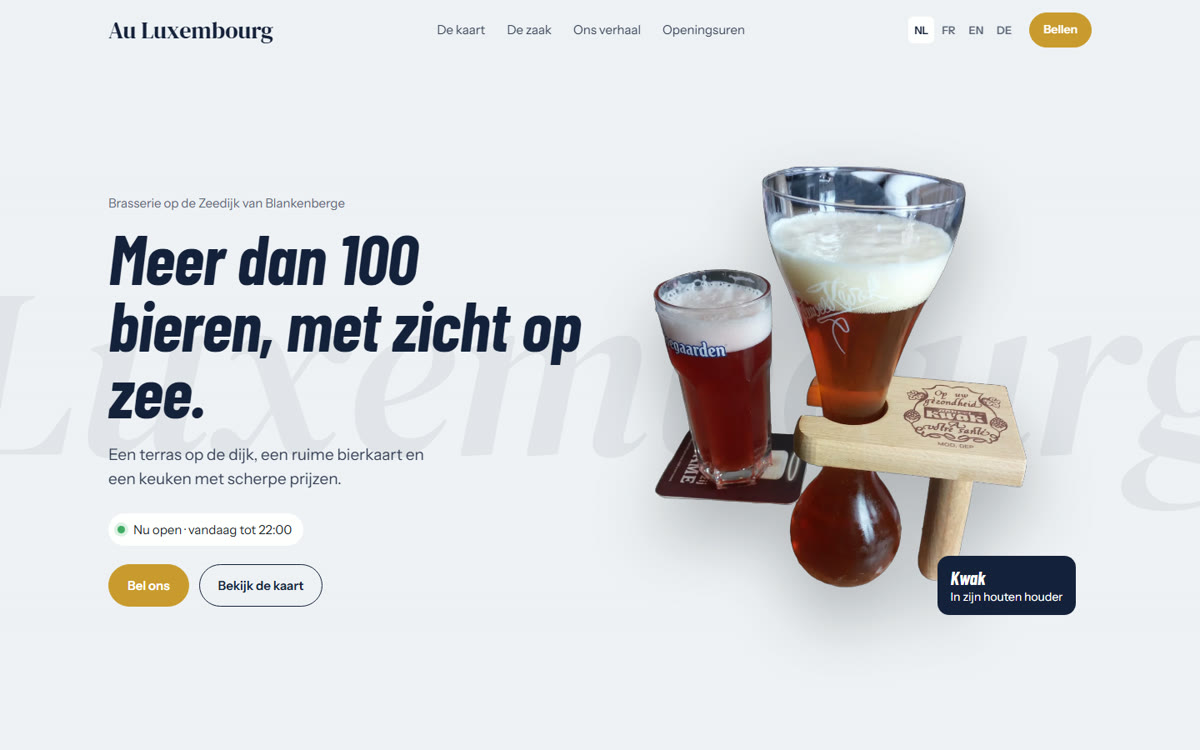
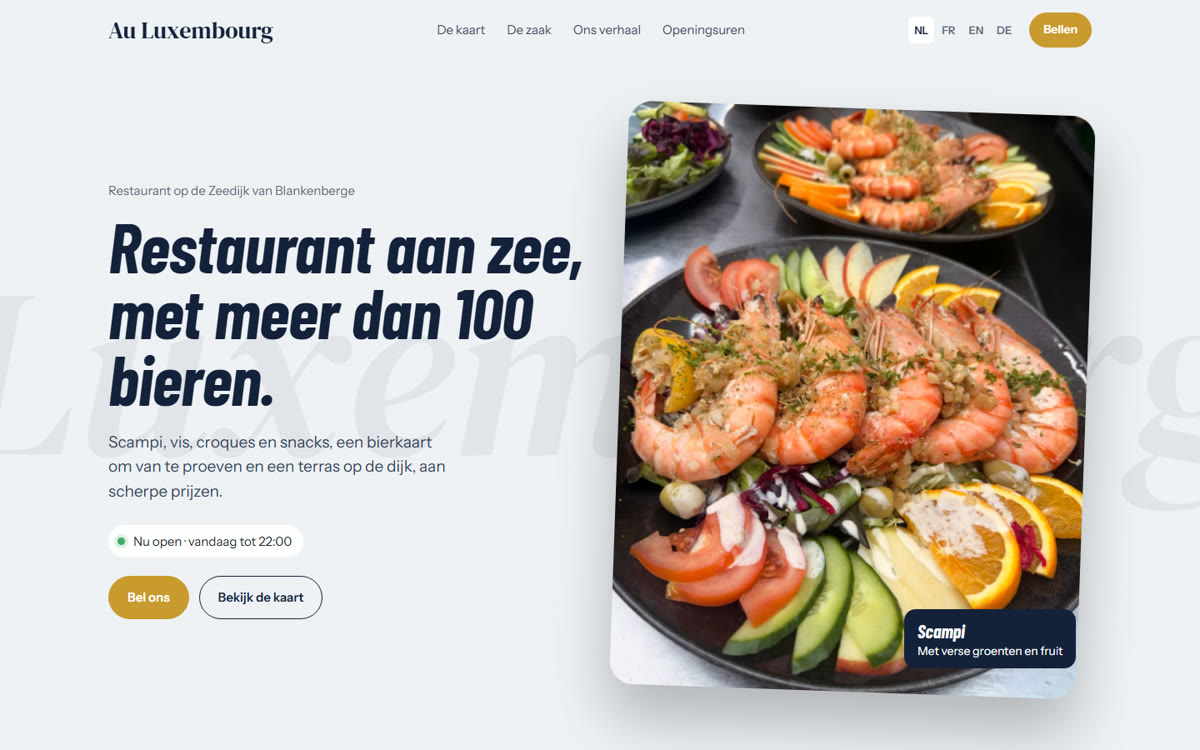
restaurant eerst, foto-kaarten, kaart op adres

diff --git a/index.html b/index.html
@@ -103,6 +103,10 @@ footer.voet{padding:40px 0;border-top:1px solid var(--lijn)}footer.voet .wrap{di
 .reveal{opacity:0;transform:translateY(26px);transition:opacity .8s,transform .8s cubic-bezier(.2,.8,.2,1)}.reveal.in{opacity:1;transform:none}
 :focus-visible{outline:2px solid var(--oker);outline-offset:3px;border-radius:6px}
 @media(prefers-reduced-motion:reduce){*{animation:none!important;transition:none!important}.achter{clip-path:none}.reveal,.gerecht{opacity:1;transform:none}}
+.pot img.foto{aspect-ratio:4/5;object-fit:cover;border-radius:28px;filter:none;box-shadow:0 40px 70px rgba(20,25,30,.28);transform-origin:center}
+.pot:has(img.foto) img{rotate:2deg}
+.gerecht .beeld img.foto{flex:1 1 100%;align-self:stretch;width:100%;max-width:none;height:100%;max-height:none;object-fit:cover;border-radius:14px;filter:none}
+.gerecht:hover .beeld img.foto{transform:scale(1.03)}
 
 </style>
 </head>
@@ -118,22 +122,22 @@ footer.voet{padding:40px 0;border-top:1px solid var(--lijn)}footer.voet .wrap{di
   <div class="achter" aria-hidden="true">Luxembourg</div>
   <div class="wrap">
     <div>
-      <p class="sinds" data-t="sinds">Brasserie op de Zeedijk van Blankenberge</p>
-      <h1 data-t="held_titel">Meer dan 100 bieren, met zicht op zee.</h1>
-      <p class="sub" data-t="held_sub">Een terras op de dijk, een ruime bierkaart en een keuken met scherpe prijzen.</p>
+      <p class="sinds" data-t="sinds">Restaurant op de Zeedijk van Blankenberge</p>
+      <h1 data-t="held_titel">Restaurant aan zee, met meer dan 100 bieren.</h1>
+      <p class="sub" data-t="held_sub">Scampi, vis, croques en snacks, een bierkaart om van te proeven en een terras op de dijk, aan scherpe prijzen.</p>
       <div class="status" id="status"><i></i><span>…</span></div>
       <div class="knoppen"><a class="knop" href="tel:+32467704630" data-t="bel">Bel ons</a><a class="knop rand" href="#kaart" data-t="naar_kaart">Bekijk de kaart</a></div>
     </div>
-    <div class="pot"><img id="pot" src="img/held.webp" alt="Kwak-bier in zijn houten houder"><div class="label"><b data-t="label_titel">Kwak</b><span data-t="label_tekst">In zijn houten houder</span></div></div>
+    <div class="pot"><img id="pot" class="foto" src="img/held.jpg" alt="Schotel met gegrilde scampi"><div class="label"><b data-t="label_titel">Scampi</b><span data-t="label_tekst">Met verse groenten en fruit</span></div></div>
   </div>
 </section>
 <div class="strook" aria-hidden="true"><div class="band" id="band"></div></div>
 <section class="kaartsectie" id="kaart"><div class="wrap">
-  <div class="koptekst reveal"><h2 data-t="kaart_titel">De kaart</h2><p data-t="kaart_intro">Bieren, warme en koude dranken, en een keuken voor een klein hapje of een volledige maaltijd.</p></div>
-  <div class="tabs" role="tablist"><button role="tab" aria-selected="true" data-groep="0" data-t="tab0">Bieren</button><button role="tab" aria-selected="false" data-groep="1" data-t="tab1">Keuken</button><button role="tab" aria-selected="false" data-groep="2" data-t="tab2">Zoet &amp; warm</button></div>
-  <div class="groep aan" id="g-0" role="tabpanel"><div class="grootwoord" data-t="tab0">Bieren</div><div class="gerechten"><article class="gerecht"><div class="beeld"><img src="img/g0_0.webp" alt="" loading="lazy"></div><h3 data-t="g0_0">Brugse Zot</h3><p data-t="g0_0_t">Blond bier uit Brugge, in het eigen glas.</p></article><article class="gerecht"><div class="beeld"><img src="img/g0_1.webp" alt="" loading="lazy"></div><h3 data-t="g0_1">Mort Subite Kriek</h3><p data-t="g0_1_t">Fris en fruitig, met krieken.</p></article><article class="gerecht"><div class="beeld"><img src="img/g0_2.webp" alt="" loading="lazy"></div><h3 data-t="g0_2">Van ’t vat</h3><p data-t="g0_2_t">In het seizoen acht verschillende bieren van ’t vat.</p></article></div></div>
-  <div class="groep" id="g-1" role="tabpanel"><div class="grootwoord" data-t="tab1">Keuken</div><div class="gerechten"><article class="gerecht"><div class="beeld"><img src="img/g1_0.webp" alt="" loading="lazy"></div><h3 data-t="g1_0">Scampi</h3><p data-t="g1_0_t">Gegrilde scampi met verse groenten en fruit.</p></article><article class="gerecht"><div class="beeld"><img src="img/g1_1.webp" alt="" loading="lazy"></div><h3 data-t="g1_1">Zalm</h3><p data-t="g1_1_t">Zalmfilet met grijze garnalen en een frisse salade.</p></article></div></div>
-  <div class="groep" id="g-2" role="tabpanel"><div class="grootwoord" data-t="tab2">Zoet &amp; warm</div><div class="gerechten"><article class="gerecht"><div class="beeld"><img src="img/g2_0.webp" alt="" loading="lazy"></div><h3 data-t="g2_0">IJscoupe</h3><p data-t="g2_0_t">Met slagroom, chocoladesaus en een wafeltje.</p></article><article class="gerecht"><div class="beeld"><img src="img/g2_1.webp" alt="" loading="lazy"></div><h3 data-t="g2_1">Irish coffee</h3><p data-t="g2_1_t">Of een cappuccino, een thee, een smoothie.</p></article></div></div>
+  <div class="koptekst reveal"><h2 data-t="kaart_titel">De kaart</h2><p data-t="kaart_intro">Een keuken voor een volledige maaltijd of een klein hapje, met meer dan 100 bieren om bij te kiezen.</p></div>
+  <div class="tabs" role="tablist"><button role="tab" aria-selected="true" data-groep="0" data-t="tab0">Keuken</button><button role="tab" aria-selected="false" data-groep="1" data-t="tab1">Bieren</button><button role="tab" aria-selected="false" data-groep="2" data-t="tab2">Zoet &amp; warm</button></div>
+  <div class="groep aan" id="g-0" role="tabpanel"><div class="grootwoord" data-t="tab0">Keuken</div><div class="gerechten"><article class="gerecht"><div class="beeld"><img src="img/g0_0.jpg" class="foto" alt="" loading="lazy"></div><h3 data-t="g0_0">Scampi</h3><p data-t="g0_0_t">Gegrilde scampi met verse groenten en fruit.</p></article><article class="gerecht"><div class="beeld"><img src="img/g0_1.jpg" class="foto" alt="" loading="lazy"></div><h3 data-t="g0_1">Zalm</h3><p data-t="g0_1_t">Zalmfilet met grijze garnalen en een frisse salade.</p></article></div></div>
+  <div class="groep" id="g-1" role="tabpanel"><div class="grootwoord" data-t="tab1">Bieren</div><div class="gerechten"><article class="gerecht"><div class="beeld"><img src="img/g1_0.jpg" class="foto" alt="" loading="lazy"></div><h3 data-t="g1_0">Brugse Zot</h3><p data-t="g1_0_t">Blond bier uit Brugge, in het eigen glas.</p></article><article class="gerecht"><div class="beeld"><img src="img/g1_1.webp" alt="" loading="lazy"></div><h3 data-t="g1_1">Mort Subite Kriek</h3><p data-t="g1_1_t">Fris en fruitig, met krieken.</p></article><article class="gerecht"><div class="beeld"><img src="img/g1_2.jpg" class="foto" alt="" loading="lazy"></div><h3 data-t="g1_2">Van ’t vat</h3><p data-t="g1_2_t">In het seizoen acht verschillende bieren van ’t vat.</p></article></div></div>
+  <div class="groep" id="g-2" role="tabpanel"><div class="grootwoord" data-t="tab2">Zoet &amp; warm</div><div class="gerechten"><article class="gerecht"><div class="beeld"><img src="img/g2_0.jpg" class="foto" alt="" loading="lazy"></div><h3 data-t="g2_0">IJscoupe</h3><p data-t="g2_0_t">Met slagroom, chocoladesaus en een wafeltje.</p></article><article class="gerecht"><div class="beeld"><img src="img/g2_1.webp" alt="" loading="lazy"></div><h3 data-t="g2_1">Irish coffee</h3><p data-t="g2_1_t">Of een cappuccino, een thee, een smoothie.</p></article></div></div>
   <p class="noot" data-t="noot">Ook croques, broodjes, smoothies en milkshakes. Vraag naar de volledige bierkaart.</p>
 </div></section>
 <section class="terras" id="terras"><img src="img/terras.jpg" alt="" loading="lazy">
@@ -158,7 +162,7 @@ footer.voet{padding:40px 0;border-top:1px solid var(--lijn)}footer.voet .wrap{di
 <footer class="voet"><div class="wrap"><span>© Au Luxembourg, Blankenberge</span><span>Zeedijk 75 · +32 467 70 46 30</span></div></footer>
 <div class="belbalk"><a class="knop" href="tel:+32467704630" data-t="bel_kort">Bellen</a><a class="knop rand" href="https://www.google.com/maps/search/?api=1&amp;query=Au+Luxembourg&amp;query_place_id=ChIJd3uxQIaqxEcRaDI_cEEVljQ" data-t="route">Route</a></div>
 <script>
-var T = {"nl": {"g0_0": "Brugse Zot", "g0_0_t": "Blond bier uit Brugge, in het eigen glas.", "g0_1": "Mort Subite Kriek", "g0_1_t": "Fris en fruitig, met krieken.", "g0_2": "Van ’t vat", "g0_2_t": "In het seizoen acht verschillende bieren van ’t vat.", "tab0": "Bieren", "g1_0": "Scampi", "g1_0_t": "Gegrilde scampi met verse groenten en fruit.", "g1_1": "Zalm", "g1_1_t": "Zalmfilet met grijze garnalen en een frisse salade.", "tab1": "Keuken", "g2_0": "IJscoupe", "g2_0_t": "Met slagroom, chocoladesaus en een wafeltje.", "g2_1": "Irish coffee", "g2_1_t": "Of een cappuccino, een thee, een smoothie.", "tab2": "Zoet & warm", "f0": "Terras met zicht op zee", "f0_t": "Recht op de Zeedijk.", "f1": "Zaal voor 50 personen", "f1_t": "Voor feestjes en vergaderingen.", "f2": "Rolstoeltoegankelijk", "f2_t": "Met aangepast toilet.", "nav_kaart": "De kaart", "nav_terras": "De zaak", "nav_verhaal": "Ons verhaal", "nav_uren": "Openingsuren", "bel_kort": "Bellen", "bel": "Bel ons", "naar_kaart": "Bekijk de kaart", "kaart_titel": "De kaart", "uren_titel": "Openingsuren", "route": "Route", "sinds": "Brasserie op de Zeedijk van Blankenberge", "held_titel": "Meer dan 100 bieren, met zicht op zee.", "held_sub": "Een terras op de dijk, een ruime bierkaart en een keuken met scherpe prijzen.", "label_titel": "Kwak", "label_tekst": "In zijn houten houder", "kaart_intro": "Bieren, warme en koude dranken, en een keuken voor een klein hapje of een volledige maaltijd.", "noot": "Ook croques, broodjes, smoothies en milkshakes. Vraag naar de volledige bierkaart.", "terras_titel": "Op de dijk, bij zonsondergang", "terras_tekst": "Een glas op het terras, de zee voor u en de fietsen die voorbij rijden.", "verhaal_titel": "Een bierkaart om te ontdekken", "verhaal_tekst": "Meer dan honderd bieren, in het seizoen acht van ’t vat, elk in het eigen glas. Binnen een rustige zaal in blauw fluweel, buiten het terras op de dijk.", "eenheid": "bieren", "reviews_onder": "op Google, bij 518 beoordelingen", "uren_noot": "Voor groepen en feestjes in de zaal: bel even.", "dagen": ["zondag", "maandag", "dinsdag", "woensdag", "donderdag", "vrijdag", "zaterdag"], "gesloten": "Gesloten", "nu_open": "Nu open · vandaag tot ", "open_vanaf": "Vandaag open vanaf ", "nu_dicht": "Nu gesloten · ", "morgen": "morgen", "vanaf": " open vanaf ", "band": ["Brugse Zot", "Mort Subite Kriek", "Van ’t vat", "Scampi", "Zalm", "IJscoupe", "Irish coffee"]}, "fr": {"g0_0": "Brugse Zot", "g0_0_t": "Bière blonde de Bruges, dans son propre verre.", "g0_1": "Mort Subite Kriek", "g0_1_t": "Fraîche et fruitée, aux griottes.", "g0_2": "À la pression", "g0_2_t": "En saison, huit bières différentes à la pression.", "tab0": "Bières", "g1_0": "Scampi", "g1_0_t": "Scampi grillés, légumes et fruits frais.", "g1_1": "Saumon", "g1_1_t": "Filet de saumon aux crevettes grises et salade fraîche.", "tab1": "Cuisine", "g2_0": "Coupe glacée", "g2_0_t": "Avec chantilly, sauce chocolat et une gaufrette.", "g2_1": "Irish coffee", "g2_1_t": "Ou un cappuccino, un thé, un smoothie.", "tab2": "Sucré & chaud", "f0": "Terrasse avec vue sur la mer", "f0_t": "Directement sur la digue.", "f1": "Salle pour 50 personnes", "f1_t": "Pour fêtes et réunions.", "f2": "Accessible en fauteuil", "f2_t": "Avec toilettes adaptées.", "nav_kaart": "La carte", "nav_terras": "Le lieu", "nav_verhaal": "Notre histoire", "nav_uren": "Horaires", "bel_kort": "Appeler", "bel": "Appelez-nous", "naar_kaart": "Voir la carte", "kaart_titel": "La carte", "uren_titel": "Horaires", "route": "Itinéraire", "sinds": "Brasserie sur la digue de Blankenberge", "held_titel": "Plus de 100 bières, face à la mer.", "held_sub": "Une terrasse sur la digue, une grande carte des bières et une cuisine à prix doux.", "label_titel": "Kwak", "label_tekst": "Dans son support en bois", "kaart_intro": "Des bières, des boissons chaudes et froides, et une cuisine pour un en-cas ou un vrai repas.", "noot": "Aussi des croques, sandwichs, smoothies et milkshakes. Demandez la carte complète des bières.", "terras_titel": "Sur la digue, au coucher du soleil", "terras_tekst": "Un verre en terrasse, la mer devant vous et les vélos qui passent.", "verhaal_titel": "Une carte des bières à découvrir", "verhaal_tekst": "Plus de cent bières, huit à la pression en saison, chacune dans son verre. À l’intérieur une salle calme en velours bleu, dehors la terrasse sur la digue.", "eenheid": "bières", "reviews_onder": "sur Google, 518 avis", "uren_noot": "Pour les groupes et fêtes dans la salle : appelez-nous.", "dagen": ["dimanche", "lundi", "mardi", "mercredi", "jeudi", "vendredi", "samedi"], "gesloten": "Fermé", "nu_open": "Ouvert · aujourd’hui jusqu’à ", "open_vanaf": "Ouvert aujourd’hui dès ", "nu_dicht": "Fermé · ", "morgen": "demain", "vanaf": " ouvert dès ", "band": ["Brugse Zot", "Mort Subite Kriek", "À la pression", "Scampi", "Saumon", "Coupe glacée", "Irish coffee"]}, "en": {"g0_0": "Brugse Zot", "g0_0_t": "Blonde beer from Bruges, in its own glass.", "g0_1": "Mort Subite Kriek", "g0_1_t": "Fresh and fruity, with sour cherries.", "g0_2": "On tap", "g0_2_t": "In season, eight different beers on tap.", "tab0": "Beers", "g1_0": "Scampi", "g1_0_t": "Grilled scampi with fresh vegetables and fruit.", "g1_1": "Salmon", "g1_1_t": "Salmon fillet with brown shrimps and a fresh salad.", "tab1": "Kitchen", "g2_0": "Ice cream sundae", "g2_0_t": "With whipped cream, chocolate sauce and a wafer.", "g2_1": "Irish coffee", "g2_1_t": "Or a cappuccino, a tea, a smoothie.", "tab2": "Sweet & warm", "f0": "Terrace with a sea view", "f0_t": "Right on the seafront.", "f1": "Room for 50 people", "f1_t": "For parties and meetings.", "f2": "Wheelchair accessible", "f2_t": "With an adapted toilet.", "nav_kaart": "Menu", "nav_terras": "The place", "nav_verhaal": "Our story", "nav_uren": "Opening hours", "bel_kort": "Call us", "bel": "Call us", "naar_kaart": "See the menu", "kaart_titel": "The menu", "uren_titel": "Opening hours", "route": "Directions", "sinds": "Brasserie on the seafront of Blankenberge", "held_titel": "More than 100 beers, with a sea view.", "held_sub": "A terrace on the seafront, a big beer list and a kitchen with fair prices.", "label_titel": "Kwak", "label_tekst": "In its wooden stand", "kaart_intro": "Beers, hot and cold drinks, and a kitchen for a snack or a full meal.", "noot": "Also croques, sandwiches, smoothies and milkshakes. Ask for the full beer list.", "terras_titel": "On the seafront, at sunset", "terras_tekst": "A drink on the terrace, the sea in front of you and the bikes rolling by.", "verhaal_titel": "A beer list to explore", "verhaal_tekst": "More than a hundred beers, eight on tap in season, each in its own glass. Inside a quiet room in blue velvet, outside the terrace on the seafront.", "eenheid": "beers", "reviews_onder": "on Google, from 518 reviews", "uren_noot": "For groups and parties in the room: give us a call.", "dagen": ["Sunday", "Monday", "Tuesday", "Wednesday", "Thursday", "Friday", "Saturday"], "gesloten": "Closed", "nu_open": "Open now · today until ", "open_vanaf": "Opens today at ", "nu_dicht": "Closed now · ", "morgen": "tomorrow", "vanaf": " opens at ", "band": ["Brugse Zot", "Mort Subite Kriek", "On tap", "Scampi", "Salmon", "Ice cream sundae", "Irish coffee"]}, "de": {"g0_0": "Brugse Zot", "g0_0_t": "Blondes Bier aus Brügge, im eigenen Glas.", "g0_1": "Mort Subite Kriek", "g0_1_t": "Frisch und fruchtig, mit Sauerkirschen.", "g0_2": "Vom Fass", "g0_2_t": "In der Saison acht verschiedene Biere vom Fass.", "tab0": "Biere", "g1_0": "Scampi", "g1_0_t": "Gegrillte Scampi mit frischem Gemüse und Obst.", "g1_1": "Lachs", "g1_1_t": "Lachsfilet mit Nordseekrabben und frischem Salat.", "tab1": "Küche", "g2_0": "Eisbecher", "g2_0_t": "Mit Sahne, Schokoladensoße und einer Waffel.", "g2_1": "Irish Coffee", "g2_1_t": "Oder ein Cappuccino, ein Tee, ein Smoothie.", "tab2": "Süß & warm", "f0": "Terrasse mit Meerblick", "f0_t": "Direkt am Deich.", "f1": "Saal für 50 Personen", "f1_t": "Für Feiern und Besprechungen.", "f2": "Rollstuhlgerecht", "f2_t": "Mit barrierefreier Toilette.", "nav_kaart": "Die Karte", "nav_terras": "Das Lokal", "nav_verhaal": "Unsere Geschichte", "nav_uren": "Öffnungszeiten", "bel_kort": "Anrufen", "bel": "Rufen Sie uns an", "naar_kaart": "Zur Karte", "kaart_titel": "Die Karte", "uren_titel": "Öffnungszeiten", "route": "Route", "sinds": "Brasserie am Deich von Blankenberge", "held_titel": "Über 100 Biere, mit Meerblick.", "held_sub": "Eine Terrasse am Deich, eine große Bierkarte und eine Küche mit fairen Preisen.", "label_titel": "Kwak", "label_tekst": "In seinem Holzständer", "kaart_intro": "Biere, warme und kalte Getränke und eine Küche für einen Snack oder eine ganze Mahlzeit.", "noot": "Auch Croques, Brötchen, Smoothies und Milchshakes. Fragen Sie nach der ganzen Bierkarte.", "terras_titel": "Am Deich, bei Sonnenuntergang", "terras_tekst": "Ein Glas auf der Terrasse, das Meer vor Ihnen und die Fahrräder, die vorbeifahren.", "verhaal_titel": "Eine Bierkarte zum Entdecken", "verhaal_tekst": "Über hundert Biere, in der Saison acht vom Fass, jedes im eigenen Glas. Drinnen ein ruhiger Raum in blauem Samt, draußen die Terrasse am Deich.", "eenheid": "Biere", "reviews_onder": "auf Google, aus 518 Bewertungen", "uren_noot": "Für Gruppen und Feiern im Saal: bitte kurz anrufen.", "dagen": ["Sonntag", "Montag", "Dienstag", "Mittwoch", "Donnerstag", "Freitag", "Samstag"], "gesloten": "Geschlossen", "nu_open": "Jetzt geöffnet · heute bis ", "open_vanaf": "Heute geöffnet ab ", "nu_dicht": "Jetzt geschlossen · ", "morgen": "morgen", "vanaf": " geöffnet ab ", "band": ["Brugse Zot", "Mort Subite Kriek", "Vom Fass", "Scampi", "Lachs", "Eisbecher", "Irish Coffee"]}};
+var T = {"nl": {"g0_0": "Scampi", "g0_0_t": "Gegrilde scampi met verse groenten en fruit.", "g0_1": "Zalm", "g0_1_t": "Zalmfilet met grijze garnalen en een frisse salade.", "tab0": "Keuken", "g1_0": "Brugse Zot", "g1_0_t": "Blond bier uit Brugge, in het eigen glas.", "g1_1": "Mort Subite Kriek", "g1_1_t": "Fris en fruitig, met krieken.", "g1_2": "Van ’t vat", "g1_2_t": "In het seizoen acht verschillende bieren van ’t vat.", "tab1": "Bieren", "g2_0": "IJscoupe", "g2_0_t": "Met slagroom, chocoladesaus en een wafeltje.", "g2_1": "Irish coffee", "g2_1_t": "Of een cappuccino, een thee, een smoothie.", "tab2": "Zoet & warm", "f0": "Terras met zicht op zee", "f0_t": "Recht op de Zeedijk.", "f1": "Zaal voor 50 personen", "f1_t": "Voor feestjes en vergaderingen.", "f2": "Rolstoeltoegankelijk", "f2_t": "Met aangepast toilet.", "nav_kaart": "De kaart", "nav_terras": "De zaak", "nav_verhaal": "Ons verhaal", "nav_uren": "Openingsuren", "bel_kort": "Bellen", "bel": "Bel ons", "naar_kaart": "Bekijk de kaart", "kaart_titel": "De kaart", "uren_titel": "Openingsuren", "route": "Route", "sinds": "Restaurant op de Zeedijk van Blankenberge", "held_titel": "Restaurant aan zee, met meer dan 100 bieren.", "held_sub": "Scampi, vis, croques en snacks, een bierkaart om van te proeven en een terras op de dijk, aan scherpe prijzen.", "label_titel": "Scampi", "label_tekst": "Met verse groenten en fruit", "kaart_intro": "Een keuken voor een volledige maaltijd of een klein hapje, met meer dan 100 bieren om bij te kiezen.", "noot": "Ook croques, broodjes, smoothies en milkshakes. Vraag naar de volledige bierkaart.", "terras_titel": "Op de dijk, bij zonsondergang", "terras_tekst": "Een glas op het terras, de zee voor u en de fietsen die voorbij rijden.", "verhaal_titel": "Een bierkaart om te ontdekken", "verhaal_tekst": "Meer dan honderd bieren, in het seizoen acht van ’t vat, elk in het eigen glas. Binnen een rustige zaal in blauw fluweel, buiten het terras op de dijk.", "eenheid": "bieren", "reviews_onder": "op Google, bij 518 beoordelingen", "uren_noot": "Voor groepen en feestjes in de zaal: bel even.", "dagen": ["zondag", "maandag", "dinsdag", "woensdag", "donderdag", "vrijdag", "zaterdag"], "gesloten": "Gesloten", "nu_open": "Nu open · vandaag tot ", "open_vanaf": "Vandaag open vanaf ", "nu_dicht": "Nu gesloten · ", "morgen": "morgen", "vanaf": " open vanaf ", "band": ["Scampi", "Zalm", "Brugse Zot", "Mort Subite Kriek", "Van ’t vat", "IJscoupe", "Irish coffee"]}, "fr": {"g0_0": "Scampi", "g0_0_t": "Scampi grillés, légumes et fruits frais.", "g0_1": "Saumon", "g0_1_t": "Filet de saumon aux crevettes grises et salade fraîche.", "tab0": "Cuisine", "g1_0": "Brugse Zot", "g1_0_t": "Bière blonde de Bruges, dans son propre verre.", "g1_1": "Mort Subite Kriek", "g1_1_t": "Fraîche et fruitée, aux griottes.", "g1_2": "À la pression", "g1_2_t": "En saison, huit bières différentes à la pression.", "tab1": "Bières", "g2_0": "Coupe glacée", "g2_0_t": "Avec chantilly, sauce chocolat et une gaufrette.", "g2_1": "Irish coffee", "g2_1_t": "Ou un cappuccino, un thé, un smoothie.", "tab2": "Sucré & chaud", "f0": "Terrasse avec vue sur la mer", "f0_t": "Directement sur la digue.", "f1": "Salle pour 50 personnes", "f1_t": "Pour fêtes et réunions.", "f2": "Accessible en fauteuil", "f2_t": "Avec toilettes adaptées.", "nav_kaart": "La carte", "nav_terras": "Le lieu", "nav_verhaal": "Notre histoire", "nav_uren": "Horaires", "bel_kort": "Appeler", "bel": "Appelez-nous", "naar_kaart": "Voir la carte", "kaart_titel": "La carte", "uren_titel": "Horaires", "route": "Itinéraire", "sinds": "Restaurant sur la digue de Blankenberge", "held_titel": "Restaurant face à la mer, avec plus de 100 bières.", "held_sub": "Scampis, poisson, croques et snacks, une carte des bières à découvrir et une terrasse sur la digue, à prix doux.", "label_titel": "Scampis", "label_tekst": "Avec légumes et fruits frais", "kaart_intro": "Une cuisine pour un vrai repas ou un petit en-cas, avec plus de 100 bières au choix.", "noot": "Aussi des croques, sandwichs, smoothies et milkshakes. Demandez la carte complète des bières.", "terras_titel": "Sur la digue, au coucher du soleil", "terras_tekst": "Un verre en terrasse, la mer devant vous et les vélos qui passent.", "verhaal_titel": "Une carte des bières à découvrir", "verhaal_tekst": "Plus de cent bières, huit à la pression en saison, chacune dans son verre. À l’intérieur une salle calme en velours bleu, dehors la terrasse sur la digue.", "eenheid": "bières", "reviews_onder": "sur Google, 518 avis", "uren_noot": "Pour les groupes et fêtes dans la salle : appelez-nous.", "dagen": ["dimanche", "lundi", "mardi", "mercredi", "jeudi", "vendredi", "samedi"], "gesloten": "Fermé", "nu_open": "Ouvert · aujourd’hui jusqu’à ", "open_vanaf": "Ouvert aujourd’hui dès ", "nu_dicht": "Fermé · ", "morgen": "demain", "vanaf": " ouvert dès ", "band": ["Scampi", "Saumon", "Brugse Zot", "Mort Subite Kriek", "À la pression", "Coupe glacée", "Irish coffee"]}, "en": {"g0_0": "Scampi", "g0_0_t": "Grilled scampi with fresh vegetables and fruit.", "g0_1": "Salmon", "g0_1_t": "Salmon fillet with brown shrimps and a fresh salad.", "tab0": "Kitchen", "g1_0": "Brugse Zot", "g1_0_t": "Blonde beer from Bruges, in its own glass.", "g1_1": "Mort Subite Kriek", "g1_1_t": "Fresh and fruity, with sour cherries.", "g1_2": "On tap", "g1_2_t": "In season, eight different beers on tap.", "tab1": "Beers", "g2_0": "Ice cream sundae", "g2_0_t": "With whipped cream, chocolate sauce and a wafer.", "g2_1": "Irish coffee", "g2_1_t": "Or a cappuccino, a tea, a smoothie.", "tab2": "Sweet & warm", "f0": "Terrace with a sea view", "f0_t": "Right on the seafront.", "f1": "Room for 50 people", "f1_t": "For parties and meetings.", "f2": "Wheelchair accessible", "f2_t": "With an adapted toilet.", "nav_kaart": "Menu", "nav_terras": "The place", "nav_verhaal": "Our story", "nav_uren": "Opening hours", "bel_kort": "Call us", "bel": "Call us", "naar_kaart": "See the menu", "kaart_titel": "The menu", "uren_titel": "Opening hours", "route": "Directions", "sinds": "Restaurant on the seafront of Blankenberge", "held_titel": "A restaurant by the sea, with over 100 beers.", "held_sub": "Scampi, fish, croques and snacks, a beer list to explore and a terrace on the seafront, at fair prices.", "label_titel": "Scampi", "label_tekst": "With fresh vegetables and fruit", "kaart_intro": "A kitchen for a full meal or a quick bite, with over 100 beers to choose from.", "noot": "Also croques, sandwiches, smoothies and milkshakes. Ask for the full beer list.", "terras_titel": "On the seafront, at sunset", "terras_tekst": "A drink on the terrace, the sea in front of you and the bikes rolling by.", "verhaal_titel": "A beer list to explore", "verhaal_tekst": "More than a hundred beers, eight on tap in season, each in its own glass. Inside a quiet room in blue velvet, outside the terrace on the seafront.", "eenheid": "beers", "reviews_onder": "on Google, from 518 reviews", "uren_noot": "For groups and parties in the room: give us a call.", "dagen": ["Sunday", "Monday", "Tuesday", "Wednesday", "Thursday", "Friday", "Saturday"], "gesloten": "Closed", "nu_open": "Open now · today until ", "open_vanaf": "Opens today at ", "nu_dicht": "Closed now · ", "morgen": "tomorrow", "vanaf": " opens at ", "band": ["Scampi", "Salmon", "Brugse Zot", "Mort Subite Kriek", "On tap", "Ice cream sundae", "Irish coffee"]}, "de": {"g0_0": "Scampi", "g0_0_t": "Gegrillte Scampi mit frischem Gemüse und Obst.", "g0_1": "Lachs", "g0_1_t": "Lachsfilet mit Nordseekrabben und frischem Salat.", "tab0": "Küche", "g1_0": "Brugse Zot", "g1_0_t": "Blondes Bier aus Brügge, im eigenen Glas.", "g1_1": "Mort Subite Kriek", "g1_1_t": "Frisch und fruchtig, mit Sauerkirschen.", "g1_2": "Vom Fass", "g1_2_t": "In der Saison acht verschiedene Biere vom Fass.", "tab1": "Biere", "g2_0": "Eisbecher", "g2_0_t": "Mit Sahne, Schokoladensoße und einer Waffel.", "g2_1": "Irish Coffee", "g2_1_t": "Oder ein Cappuccino, ein Tee, ein Smoothie.", "tab2": "Süß & warm", "f0": "Terrasse mit Meerblick", "f0_t": "Direkt am Deich.", "f1": "Saal für 50 Personen", "f1_t": "Für Feiern und Besprechungen.", "f2": "Rollstuhlgerecht", "f2_t": "Mit barrierefreier Toilette.", "nav_kaart": "Die Karte", "nav_terras": "Das Lokal", "nav_verhaal": "Unsere Geschichte", "nav_uren": "Öffnungszeiten", "bel_kort": "Anrufen", "bel": "Rufen Sie uns an", "naar_kaart": "Zur Karte", "kaart_titel": "Die Karte", "uren_titel": "Öffnungszeiten", "route": "Route", "sinds": "Restaurant am Deich von Blankenberge", "held_titel": "Restaurant am Meer, mit über 100 Bieren.", "held_sub": "Scampi, Fisch, Croques und Snacks, eine Bierkarte zum Probieren und eine Terrasse am Deich, zu fairen Preisen.", "label_titel": "Scampi", "label_tekst": "Mit frischem Gemüse und Obst", "kaart_intro": "Eine Küche für eine ganze Mahlzeit oder einen kleinen Snack, mit über 100 Bieren zur Auswahl.", "noot": "Auch Croques, Brötchen, Smoothies und Milchshakes. Fragen Sie nach der ganzen Bierkarte.", "terras_titel": "Am Deich, bei Sonnenuntergang", "terras_tekst": "Ein Glas auf der Terrasse, das Meer vor Ihnen und die Fahrräder, die vorbeifahren.", "verhaal_titel": "Eine Bierkarte zum Entdecken", "verhaal_tekst": "Über hundert Biere, in der Saison acht vom Fass, jedes im eigenen Glas. Drinnen ein ruhiger Raum in blauem Samt, draußen die Terrasse am Deich.", "eenheid": "Biere", "reviews_onder": "auf Google, aus 518 Bewertungen", "uren_noot": "Für Gruppen und Feiern im Saal: bitte kurz anrufen.", "dagen": ["Sonntag", "Montag", "Dienstag", "Mittwoch", "Donnerstag", "Freitag", "Samstag"], "gesloten": "Geschlossen", "nu_open": "Jetzt geöffnet · heute bis ", "open_vanaf": "Heute geöffnet ab ", "nu_dicht": "Jetzt geschlossen · ", "morgen": "morgen", "vanaf": " geöffnet ab ", "band": ["Scampi", "Lachs", "Brugse Zot", "Mort Subite Kriek", "Vom Fass", "Eisbecher", "Irish Coffee"]}};
 var UREN = {"1": ["12:00", "22:00"], "2": ["12:00", "22:00"], "3": ["12:00", "22:00"], "4": ["12:00", "22:00"], "5": ["12:00", "22:00"], "6": ["12:00", "22:00"], "0": ["12:00", "22:00"]};
 var getalDoel = 100;
 var taal = ""; try { taal = localStorage.getItem("taal_auluxembourg") || ""; } catch(e) {}
